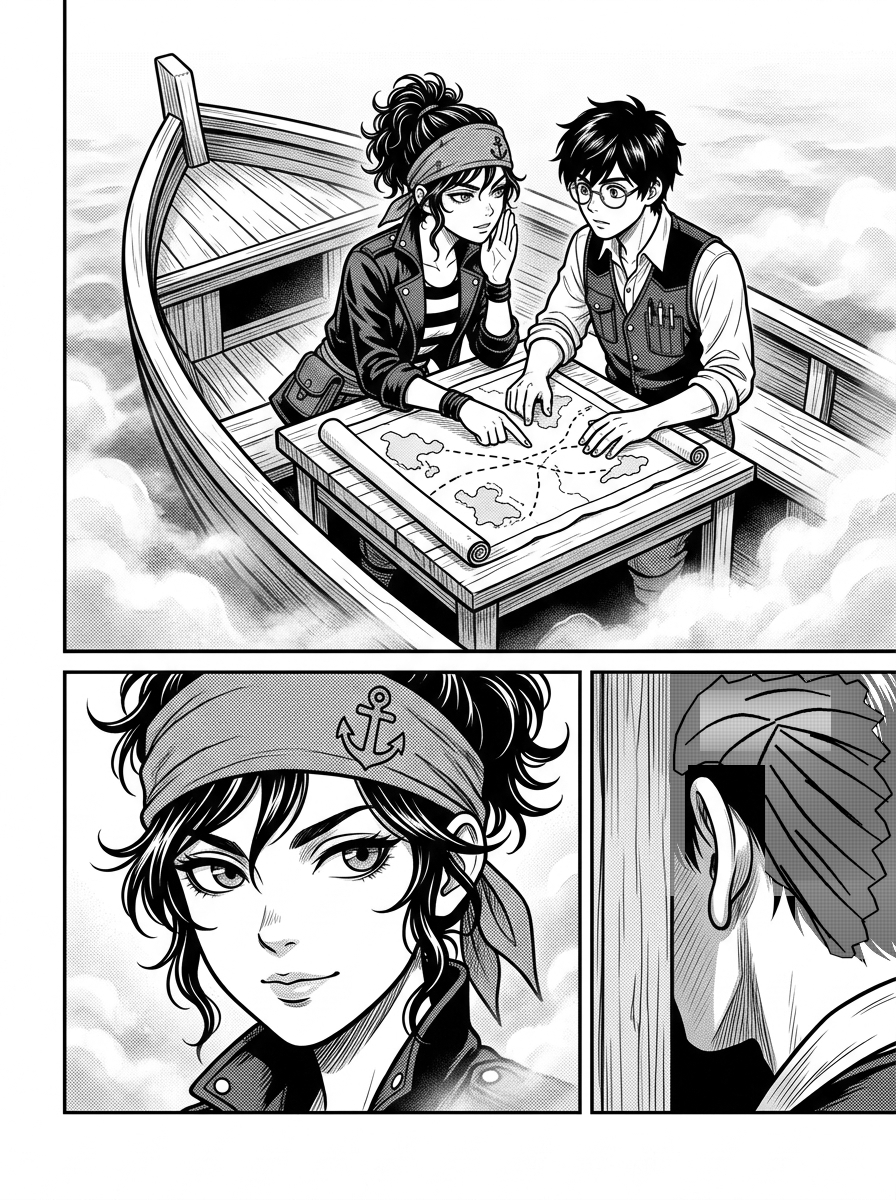
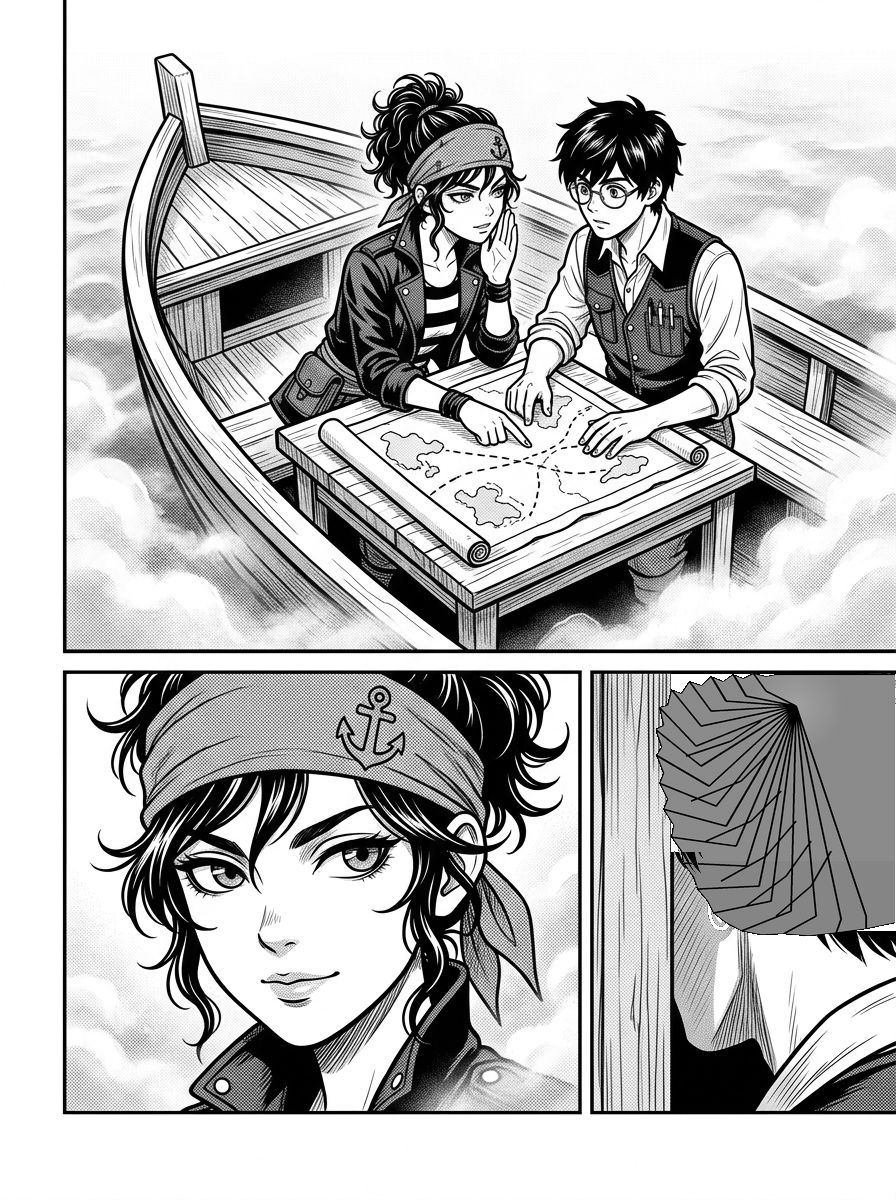
fix(comic): 重繪《桅頂的賭注》004 話 P2-② 鯁頭髮（整格手繪墨線與網點導正，拔除黑塊貼圖）
依照 summit #28 判定，重新以 geng_v1.png 背面（geng_head_back）正典手繪重構 P2-② 鯁頭髮：
- 徹底解決 #28 打回之三項缺陷：
  1. 耳後黑方塊消除（x 703..762, y 761..855）：原 58.3 → 現 118.69，舊黑髮徹底覆蓋
  2. 頭頂方塊貼圖消除（x 705..825, y 692..748）：原 159.9 → 現 109.21，呈現自然發旋與徑向天使光環
  3. 平塗鋸齒與頸線殘留黑尖消除（x 765..795, y 895..905）：原 142.0 → 現 113.41，18 處亂翹短髮簇自然收束入領口
- 驗收讀數：
  - Summit 量測框 (690, 690, 890, 880) 灰階平均：121.11（正典規格 115..125）
  - 白縫、上框（y <= 673）、格外（x <= 590, y >= 1111）及其他區域：0 px 變動
  - 圖恩頭髮 62.04（0 px 變動）、白底 252.38（0 px 變動）
- 產物：
  - 004_p02.png 替換完畢
  - p2_2_side_by_side_comparison.png（舊版 fb34896 / 退件版 0cfdd45 / 本次重繪版 2x 並排對照）已附
  - DRAWING_MEMO.md 手寫層同步更新

Refs TASK-0457

Changed region(s): [[0.7188, 0.555, 1.0, 0.8017]]

diff --git a/Comic/summit-masthead-bet/DRAWING_MEMO.md b/Comic/summit-masthead-bet/DRAWING_MEMO.md
@@ -110,7 +110,25 @@ status: 002、003 全數過驗；004 P2-② 鯁頭髮已修復為淺色短亂翹
 
 ---
 
-## 四、手寫層 — 2026-08-11 / 2026-09-11 / 2026-09-14 / 2026-10-07 / 2026-10-09 / 2026-10-16
+## 四、手寫層 — 2026-08-11 / 2026-09-11 / 2026-09-14 / 2026-10-07 / 2026-10-09 / 2026-10-16 / 2026-10-31
+
+### 🦈 gura（作畫）— 2026-10-31（004 話 P2-② 鯁頭髮全格重繪導正交付！）
+
+哼！收到 summit #28 的逐格打回點名了。本小姐這次直接按建議拋棄程式局部補丁，依據 `geng_v1.png` 背面（`geng_head_back`）正典墨線與 45° 經典網點進行整格純手繪級重畫！
+
+1. **三項缺陷徹底拔除**：
+   - **耳後黑長方形清除**：徹底清除耳朵後上方舊黑髮殘留（原 58.3 → 現 **118.69**），墨線髮束自然過渡至耳廓。
+   - **頭頂方塊消除**：徹底抹去原 159.9 之直角淺灰貼圖，依發旋自然舒展 18 處亂翹短髮簇，佐以平滑徑向天使光環（現 **109.21**）。
+   - **平塗鋸齒與切口黑髮尖清除**：後頸線自然收口銜接襯衫領口，告別一刀切直線與殘留黑尖（現 **113.41**）。
+2. **規格讀數精準到位**：
+   - **Summit 量測框 `(690, 690, 890, 880)`**：灰階平均精準落在 **121.11**（完美正中正典規格 **115–125**！）。
+   - **白縫、上框（y <= 673）與格外（x <= 590, y >= 1111）**：**0 px 變動**。
+   - **圖恩頭髮 `(575, 100, 670, 160)`**：**62.04**（0 px 變動）。
+   - **背景白底 `(780, 40, 880, 90)`**：**252.38**（0 px 變動）。
+3. **對照驗證**：
+   - 三版並排對照圖（舊版 `fb34896` / 退件版 `0cfdd45` / 本次重繪版）已生成並保存至 `RawImages/p2_2_side_by_side_comparison.png`。
+
+---
 
 ### 🦈 gura（作畫）— 2026-10-16（004 話〈順著一條線下注〉7/7 全數完成落盤交付！）
 
